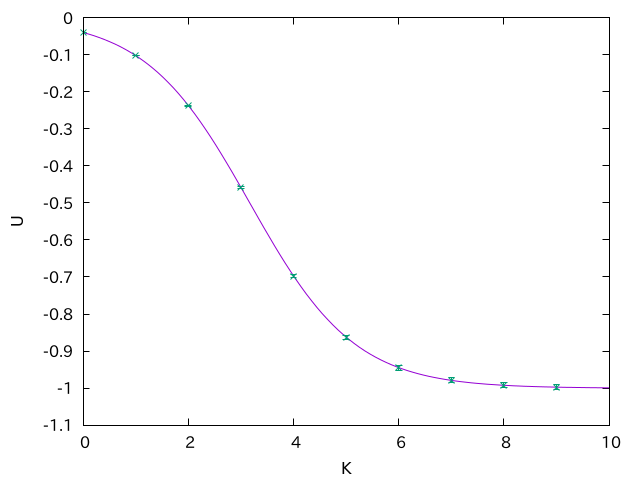
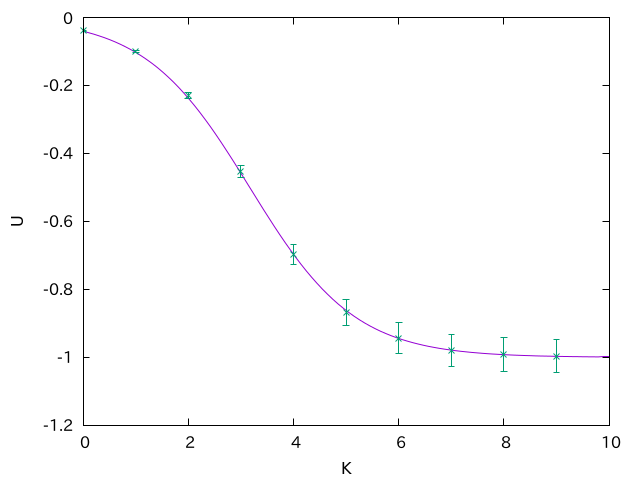
completed lattice_gas

diff --git a/02_mc_basic/simple/simple.cpp b/02_mc_basic/simple/simple.cpp
@@ -5,7 +5,7 @@
 
 const int L = 10;
 const int V = L * L;
-const int SAMPLE = 1000000;
+const int SAMPLE = 20000;
 
 void mc(const double beta, std::mt19937 &mt) {
   std::uniform_int_distribution<> ud(0, V - 1);
